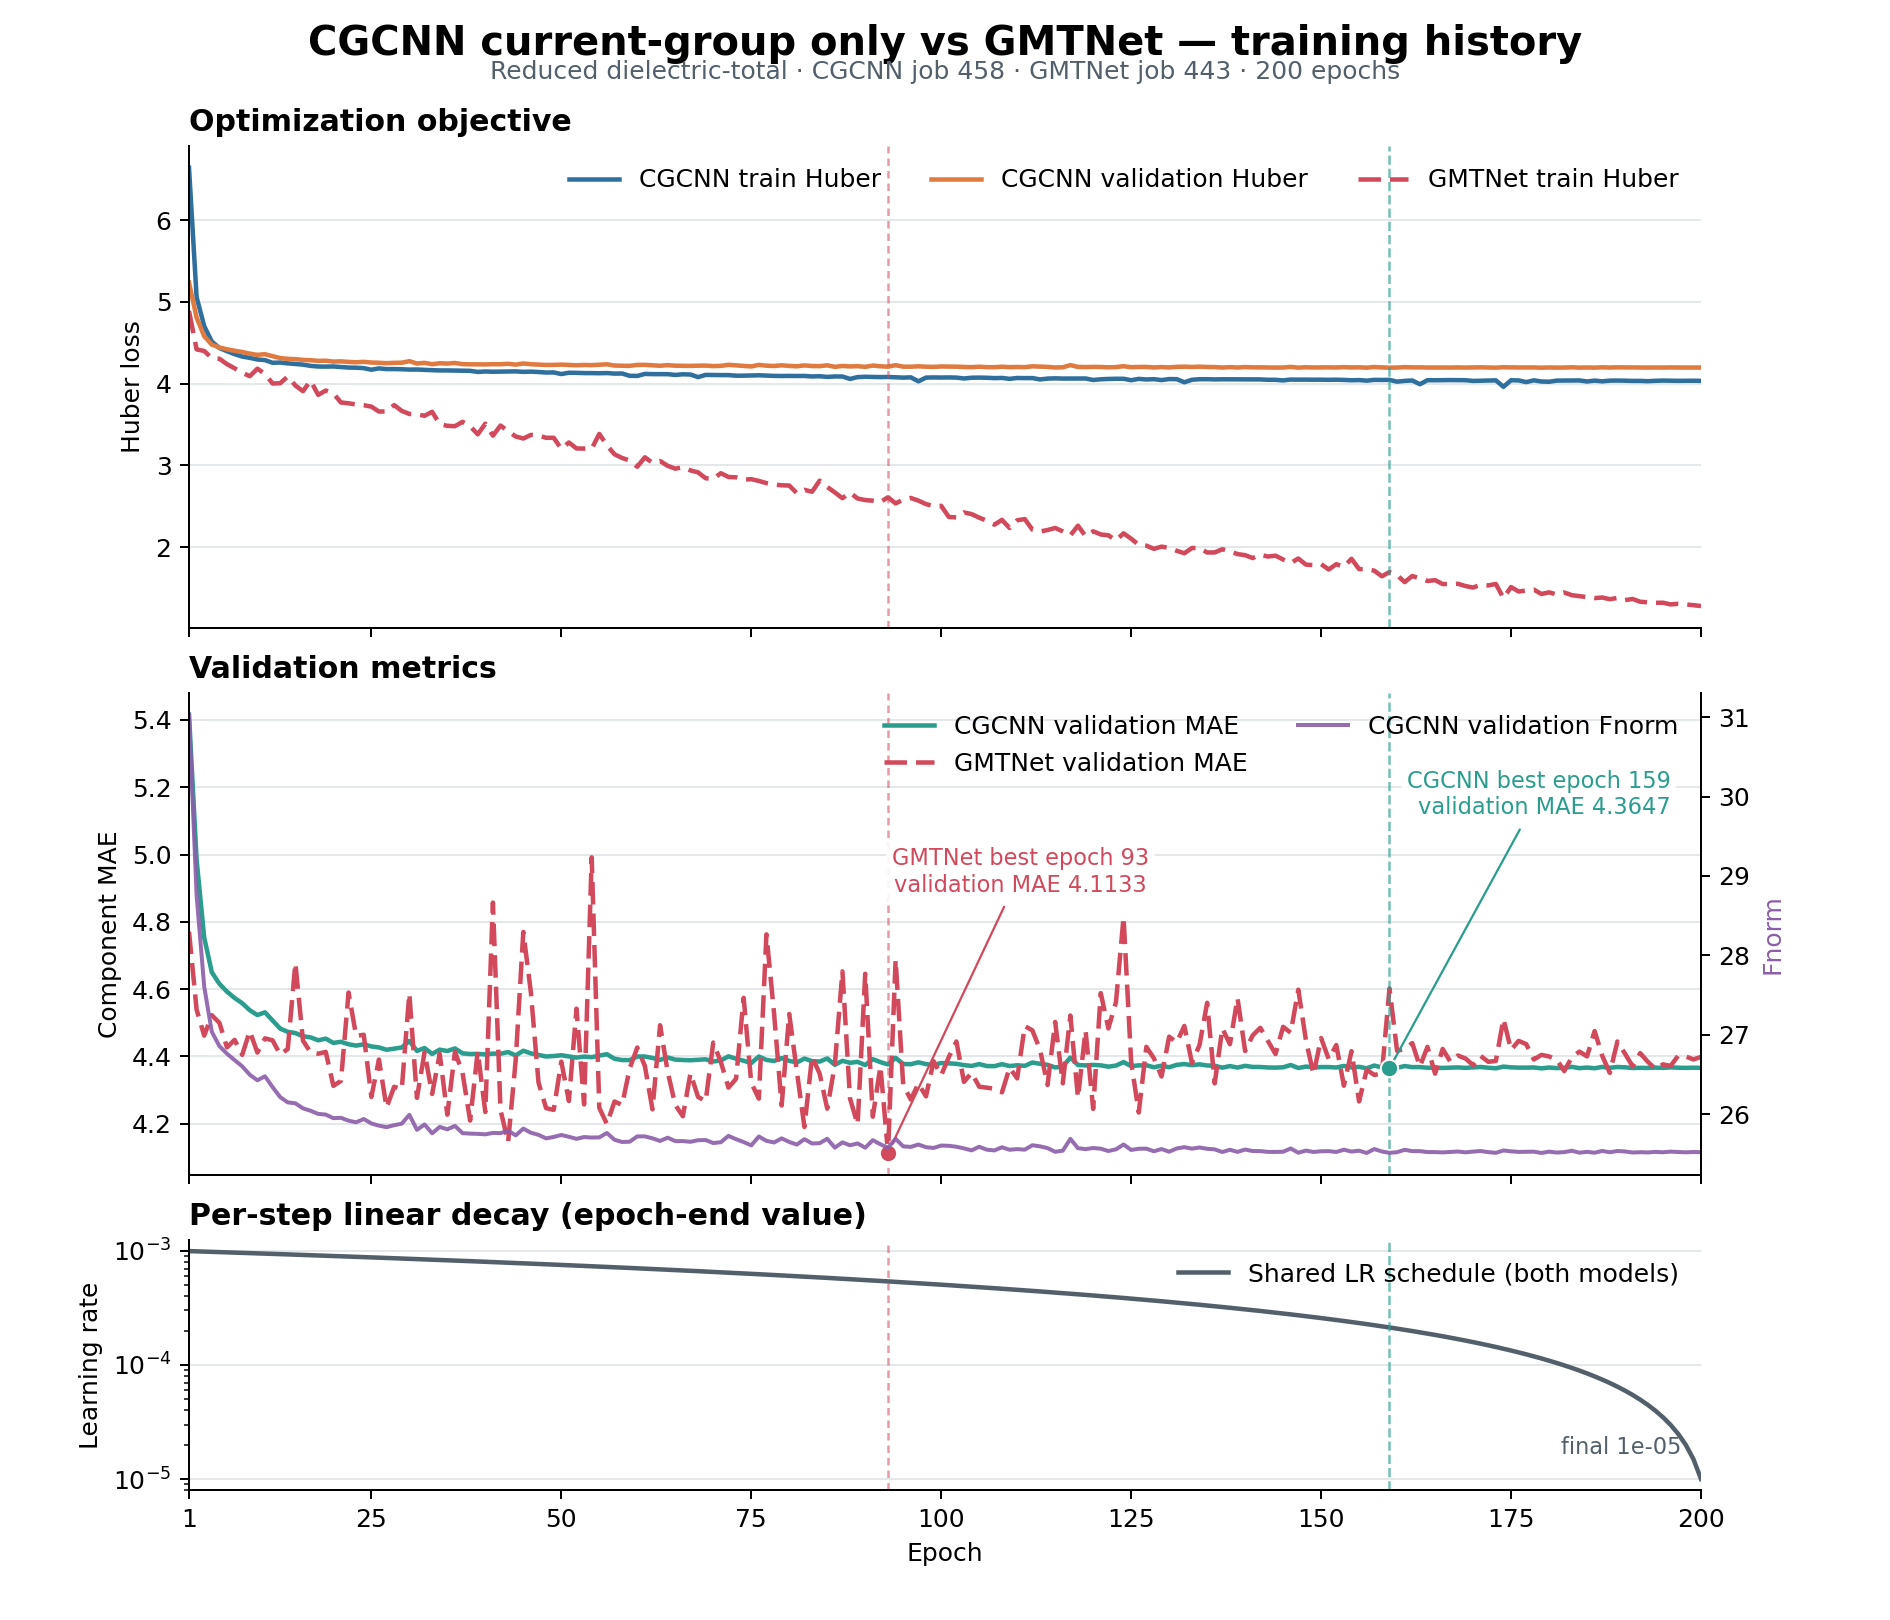
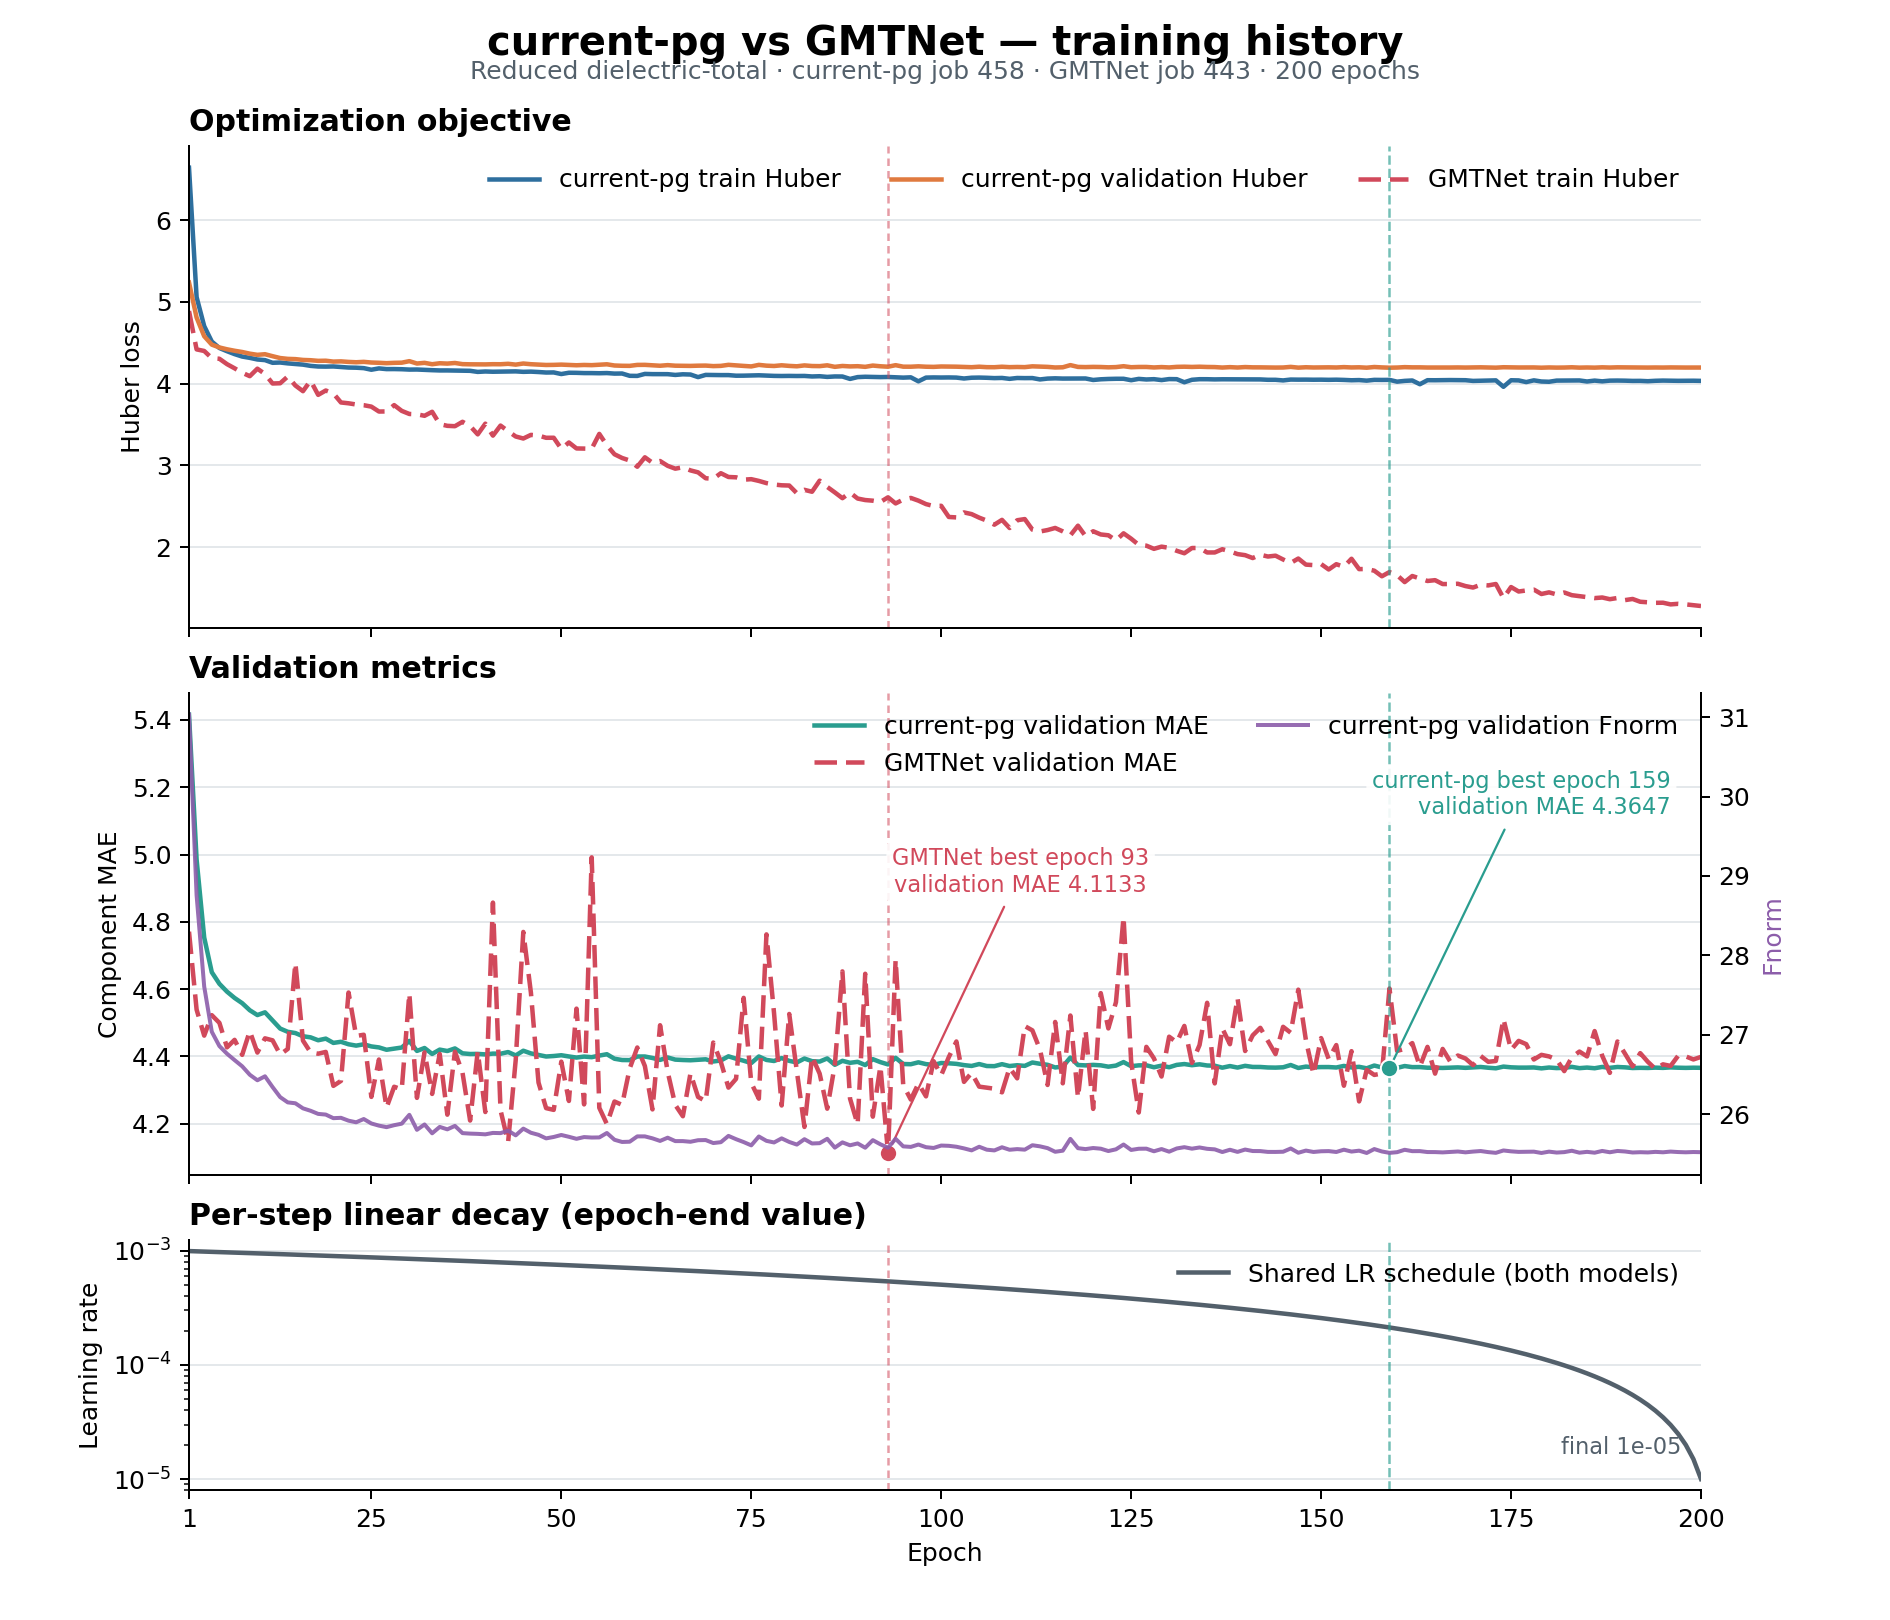
Label CGCNN curve as current-pg

diff --git a/src/evaluation/training_history.py b/src/evaluation/training_history.py
@@ -158,7 +158,7 @@ def render_current_group_history(
     )
     figure.suptitle(
         (
-            "CGCNN current-group only vs GMTNet — training history"
+            "current-pg vs GMTNet — training history"
             if gmtnet_summary is not None
             else "CGCNN-style feature + current-group only — training history"
         ),
@@ -170,7 +170,7 @@ def render_current_group_history(
         0.5,
         0.951,
         (
-            "Reduced dielectric-total · CGCNN job 458 · GMTNet job 443 · 200 epochs"
+            "Reduced dielectric-total · current-pg job 458 · GMTNet job 443 · 200 epochs"
             if gmtnet_summary is not None
             else "Reduced dielectric-total · B+A+PGE+R/full_pg · job 458 · 200 epochs"
         ),
@@ -183,14 +183,14 @@ def render_current_group_history(
         train_loss,
         color=colors["train"],
         linewidth=1.8,
-        label="CGCNN train Huber",
+        label="current-pg train Huber",
     )
     axes[0].plot(
         epochs,
         validation_loss,
         color=colors["validation"],
         linewidth=1.8,
-        label="CGCNN validation Huber",
+        label="current-pg validation Huber",
     )
     if gmtnet_summary is not None:
         axes[0].plot(
@@ -210,7 +210,7 @@ def render_current_group_history(
         validation_mae,
         color=colors["mae"],
         linewidth=1.8,
-        label="CGCNN validation MAE",
+        label="current-pg validation MAE",
     )
     if gmtnet_summary is not None:
         axes[1].plot(
@@ -231,7 +231,7 @@ def render_current_group_history(
         color=colors["fnorm"],
         linewidth=1.6,
         alpha=0.9,
-        label="CGCNN validation Fnorm",
+        label="current-pg validation Fnorm",
     )
     metric_right.set_ylabel("Fnorm", color=colors["fnorm"])
     handles_left, labels_left = axes[1].get_legend_handles_labels()
@@ -253,7 +253,7 @@ def render_current_group_history(
         zorder=5,
     )
     axes[1].annotate(
-        f"CGCNN best epoch {best_epoch}\nvalidation MAE {best_mae:.4f}",
+        f"current-pg best epoch {best_epoch}\nvalidation MAE {best_mae:.4f}",
         xy=(best_epoch, best_mae),
         xytext=(0.98, 0.84),
         textcoords="axes fraction",
@@ -293,7 +293,7 @@ def render_current_group_history(
     ):
         lr_label = "Shared LR schedule (both models)"
     else:
-        lr_label = "CGCNN learning rate"
+        lr_label = "current-pg learning rate"
     axes[2].plot(
         epochs, learning_rate, color=colors["lr"], linewidth=1.8, label=lr_label
     )
@@ -348,7 +348,7 @@ def render_current_group_history(
         metadata={
             "Date": None,
             "Title": (
-                "CGCNN current-group only vs GMTNet training history"
+                "current-pg vs GMTNet training history"
                 if gmtnet_summary is not None
                 else "CGCNN-style feature + current-group only training history"
             ),
@@ -368,7 +368,7 @@ def render_current_group_history(
         dpi=180,
         metadata={
             "Title": (
-                "CGCNN current-group only vs GMTNet training history"
+                "current-pg vs GMTNet training history"
                 if gmtnet_summary is not None
                 else "CGCNN-style feature + current-group only training history"
             )

diff --git a/tests/test_training_history_plot.py b/tests/test_training_history_plot.py
@@ -88,8 +88,10 @@ def test_training_history_render_writes_parseable_labeled_svg_and_png(tmp_path) 
     )
     ET.parse(svg)
     svg_text = svg.read_text(encoding="utf-8")
-    assert "current-group only" in svg_text
-    assert "CGCNN best epoch 200" in svg_text
+    assert "current-pg" in svg_text
+    assert "current-pg vs GMTNet" in svg_text
+    assert "current-pg train Huber" in svg_text
+    assert "current-pg best epoch 200" in svg_text
     assert "GMTNet best epoch 200" in svg_text
     assert "Shared LR schedule (both models)" in svg_text
     assert all(line == line.rstrip() for line in svg_text.splitlines())
